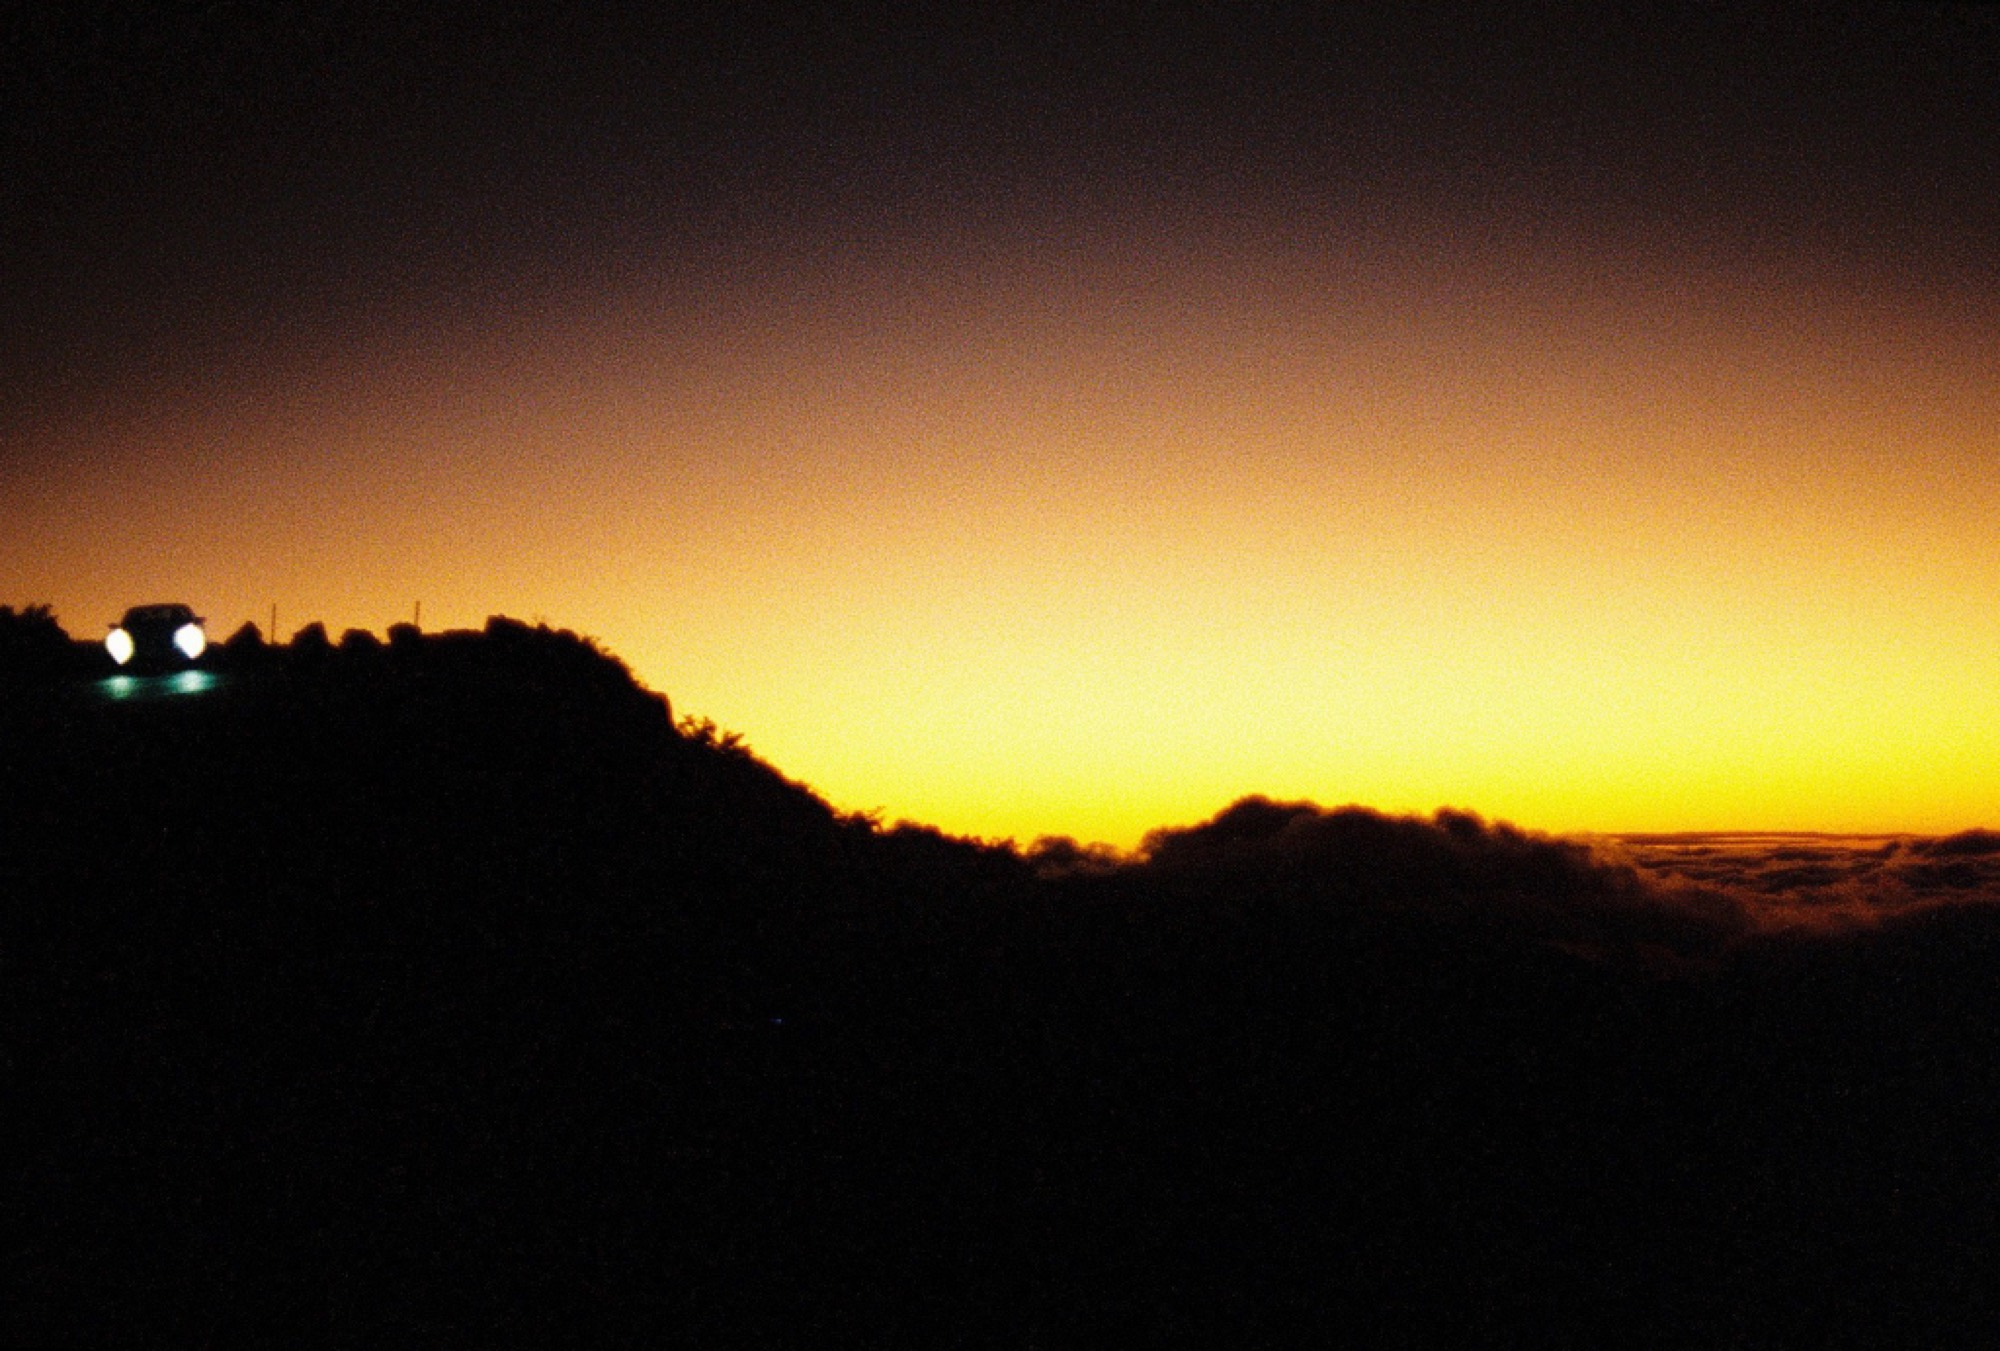
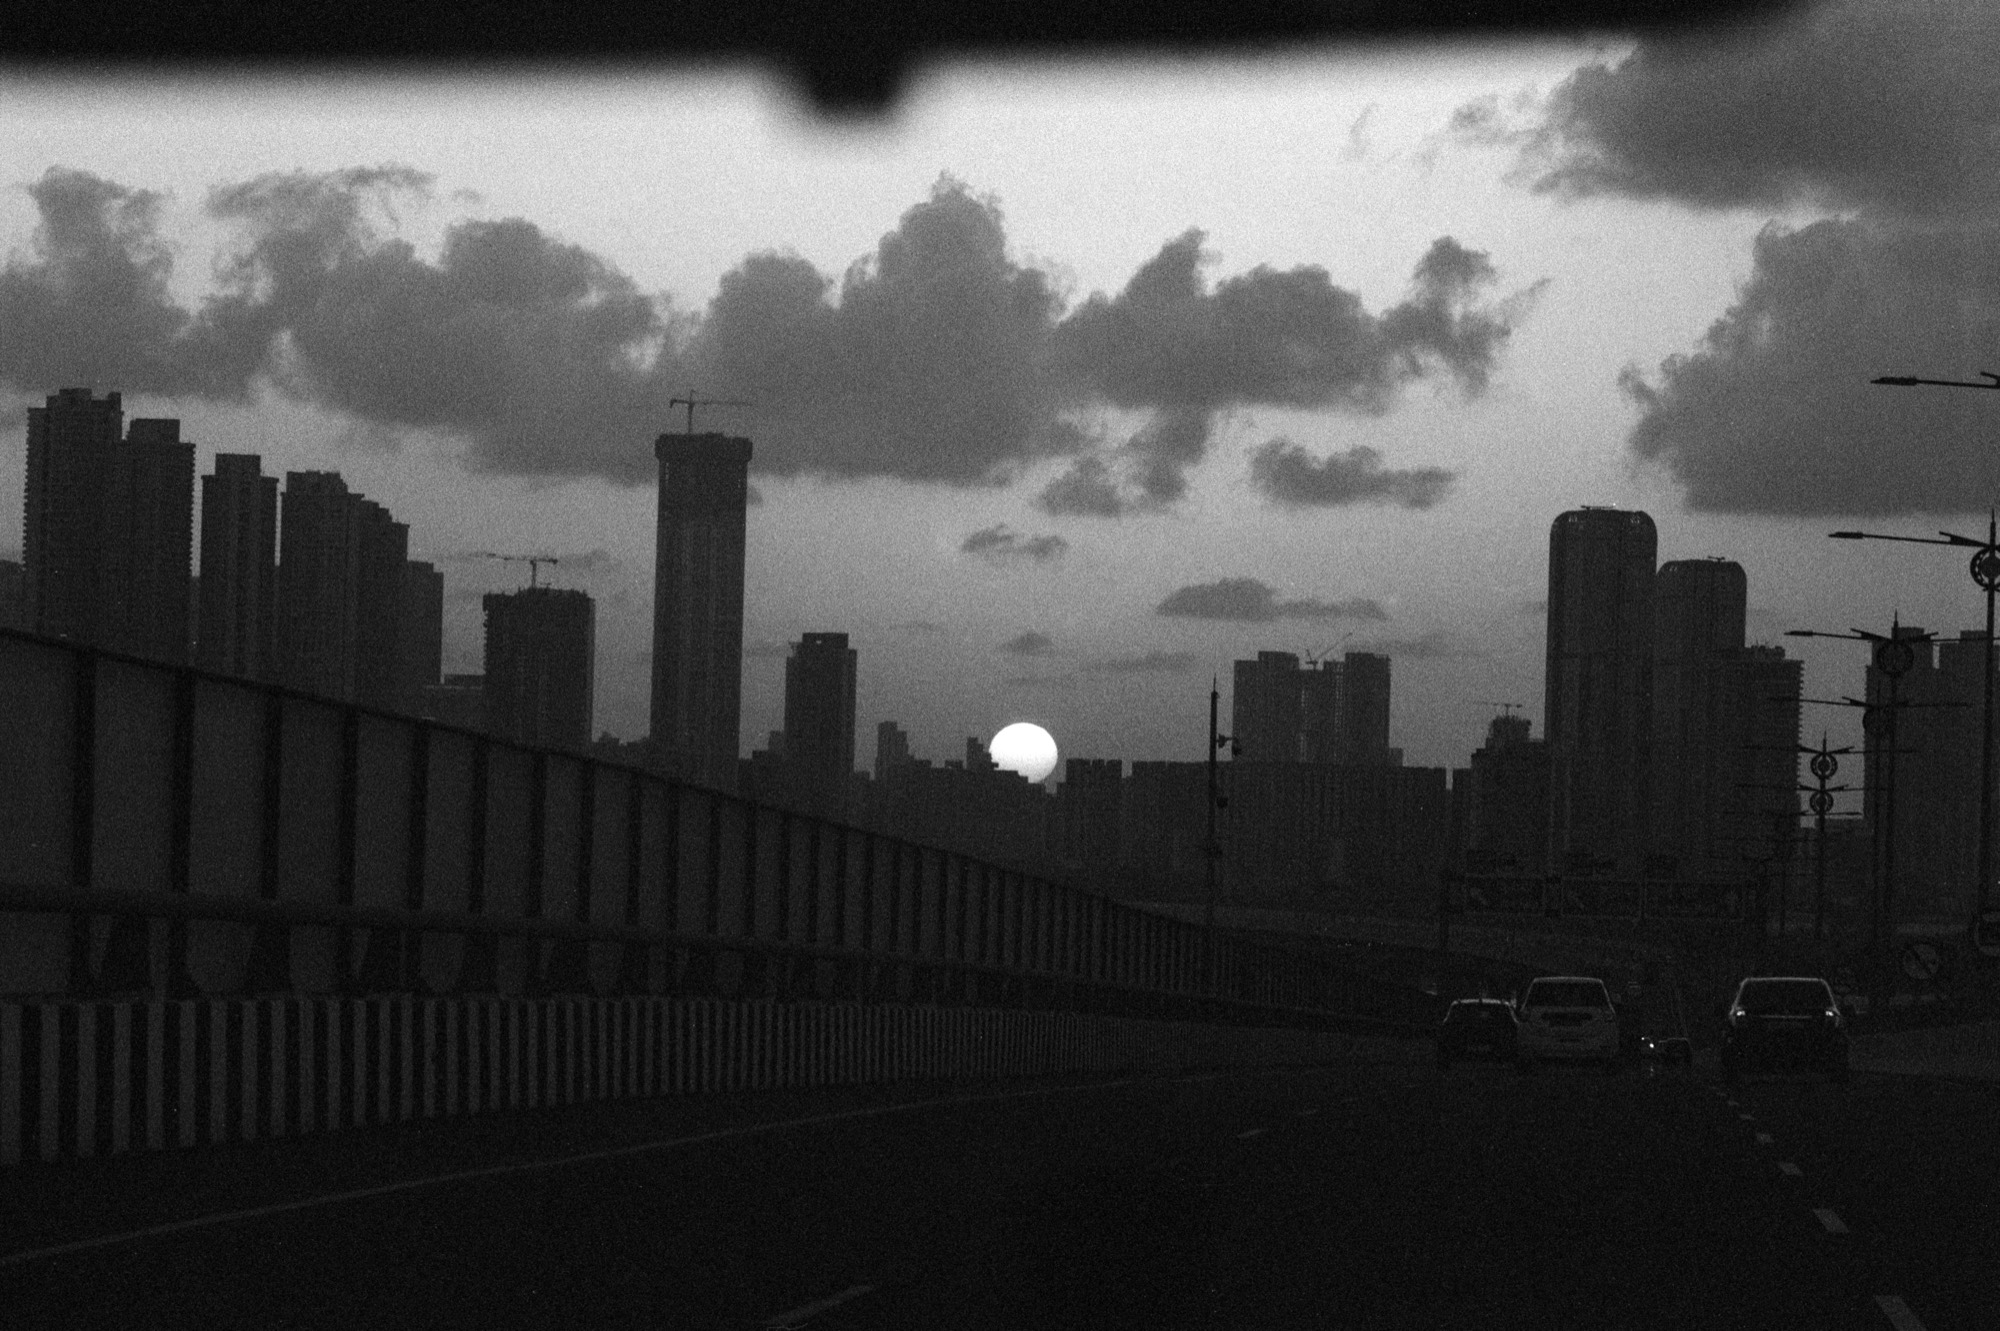
Home: B&W cityscape background (ed850-18), remove email link

diff --git a/index.html b/index.html
@@ -16,9 +16,6 @@
       <h1 data-site-name>Louis Guichard</h1>
       <p class="descriptor">Photographs by Louis Guichard. Light and fragments of the everyday. On the road and beyond.</p>
       <a class="enter" href="work.html">Enter</a>
-      <nav class="socials" aria-label="Contact">
-        <a data-site-email href="mailto:">Email</a>
-      </nav>
     </div>
   </main>
   <script src="assets/data.js"></script>